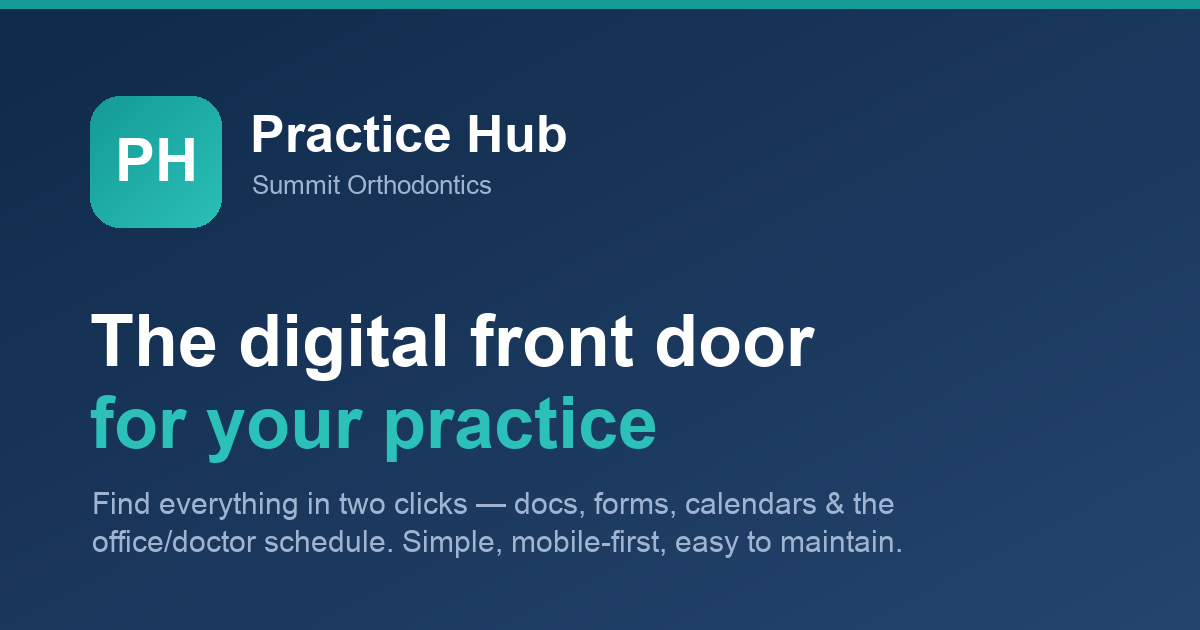
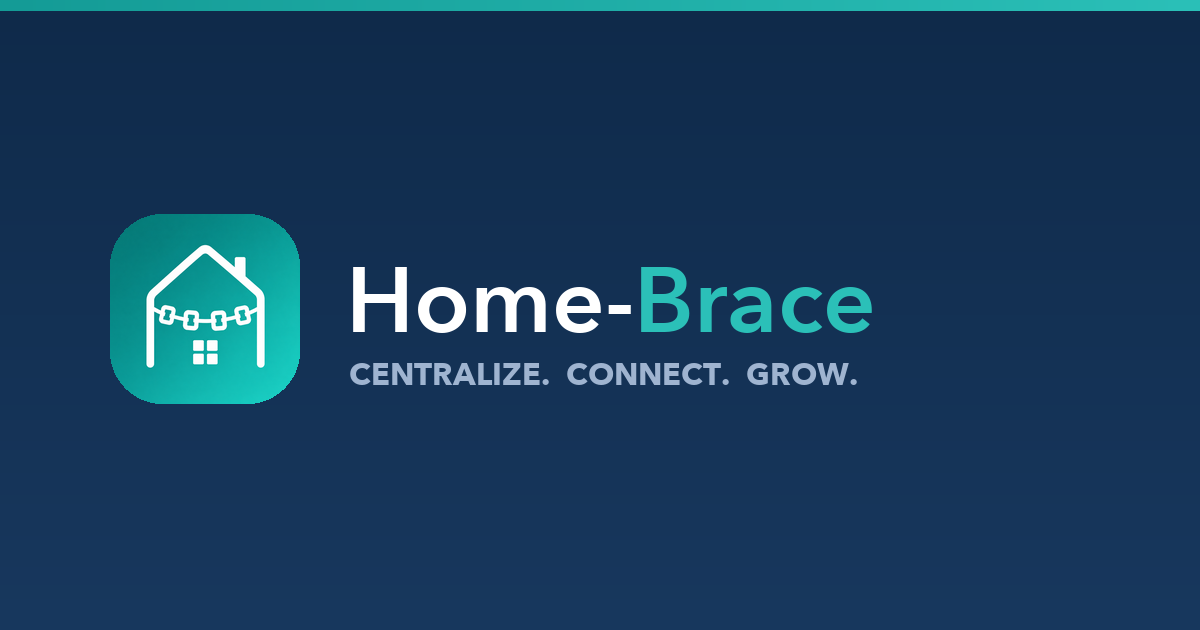
Rebuild the social card, replace month stepper with a click-to-pick month grid
- assets/og-image.png still showed "PH / Practice Hub / Summit Orthodontics" — it's a
  PNG so the rename never touched it. Rebuilt from the V2 mark with the Home-Brace
  wordmark and the Centralize. Connect. Grow. tagline.
- Month look-back is now a single button that opens a 12-month grid; months with no
  figures are disabled. Closes on pick, outside click or Esc.
- Nothing shifts when you use it: the trigger is a fixed 150px, the grid is an overlay,
  and the "This month" pill keeps its month suffix in every state.
- Fixed a labelling bug this exposed: monthName() returns the SELECTED month, so while
  looking back at July the pill read "This month · Jul". It now always names the
  current month.
- On phones the grid centres itself instead of hanging off the left edge.

diff --git a/v1/index.html b/v1/index.html
@@ -114,21 +114,41 @@
   .pchip{border:1px solid var(--line);background:#fff;border-radius:999px;padding:8px 15px;font-size:13.5px;font-weight:700;color:var(--navy);cursor:pointer;font-family:inherit;box-shadow:var(--shadow)}
   .pchip:hover{border-color:var(--teal);color:var(--teal-600)}
   .pchip.on{background:var(--teal);color:#fff;border-color:var(--teal)}
-  /* Month stepper — replaces the old "Look back at a month…" dropdown.
-     One control, two arrows, no extra pills. Walk back a month at a time. */
-  .mstep{display:inline-flex;align-items:center;background:#fff;border:1px solid var(--line);
-    border-radius:999px;box-shadow:var(--shadow);overflow:hidden}
-  .mstep button{border:none;background:none;font-family:inherit;cursor:pointer;color:var(--navy);
-    width:38px;height:38px;font-size:17px;line-height:1;display:grid;place-items:center}
-  .mstep button:hover:not(:disabled){background:var(--teal-soft);color:var(--teal-600)}
-  .mstep button:disabled{color:#c3ccd8;cursor:default}
-  .mstep .lab{min-width:104px;text-align:center;font-size:13.5px;font-weight:700;color:var(--soft);
-    padding:0 4px;user-select:none}
-  .mstep.on{border-color:var(--teal);background:var(--teal)}
-  .mstep.on .lab{color:#fff}
-  .mstep.on button{color:#eafffd}
-  .mstep.on button:hover:not(:disabled){background:rgba(255,255,255,.18);color:#fff}
-  .mstep.on button:disabled{color:rgba(255,255,255,.4)}
+  /* Month picker — one button, opens a grid, pick a month. The trigger is a FIXED width
+     and the grid is an overlay, so nothing on the page shifts when you open it or change
+     month (an earlier stepper made the row jump every time the label changed length). */
+  .mpick{position:relative;display:inline-block}
+  .mpick > .trg{display:inline-flex;align-items:center;gap:8px;width:150px;height:38px;
+    border:1px solid var(--line);background:#fff;border-radius:999px;box-shadow:var(--shadow);
+    padding:0 14px;font-family:inherit;font-size:13.5px;font-weight:700;color:var(--soft);cursor:pointer}
+  .mpick > .trg:hover{border-color:var(--teal);color:var(--teal-600)}
+  .mpick > .trg .cal{font-size:14px;line-height:1}
+  .mpick > .trg .txt{flex:1;text-align:left;white-space:nowrap;overflow:hidden}
+  .mpick > .trg .car{font-size:10px;opacity:.7}
+  .mpick.on > .trg{background:var(--teal);border-color:var(--teal);color:#fff}
+  .mpick.open > .trg{border-color:var(--teal)}
+  .mgrid{position:absolute;top:44px;left:0;z-index:60;background:#fff;border:1px solid var(--line);
+    border-radius:14px;box-shadow:var(--shadow-lg);padding:12px;width:262px;display:none}
+  .mpick.open .mgrid{display:block}
+  .mgrid .gh{font-size:11px;font-weight:800;text-transform:uppercase;letter-spacing:.05em;
+    color:var(--soft);padding:0 2px 9px}
+  .mgrid .g{display:grid;grid-template-columns:repeat(3,1fr);gap:6px}
+  .mgrid .g button{border:1px solid var(--line);background:#fff;border-radius:9px;padding:9px 0;
+    font-family:inherit;font-size:13px;font-weight:700;color:var(--navy);cursor:pointer}
+  .mgrid .g button:hover:not(:disabled){border-color:var(--teal);color:var(--teal-600);background:var(--teal-soft)}
+  .mgrid .g button.on{background:var(--teal);border-color:var(--teal);color:#fff}
+  .mgrid .g button:disabled{color:#c3ccd8;background:#fafbfc;border-color:#eef1f5;cursor:default}
+  .mgrid .clr{width:100%;margin-top:9px;border:none;background:none;font-family:inherit;font-size:12.5px;
+    font-weight:700;color:var(--teal-600);cursor:pointer;padding:7px}
+  .mgrid .clr:hover{text-decoration:underline}
+  /* On a phone a left-anchored 262px panel hangs off the screen edge, so centre it
+     instead — a familiar picker sheet. Outside-tap and Esc still close it. */
+  @media(max-width:520px){
+    .mgrid{position:fixed;left:14px;right:14px;top:50%;transform:translateY(-50%);
+      width:auto;padding:16px;box-shadow:0 20px 60px rgba(15,42,74,.4)}
+    .mgrid .g button{padding:13px 0;font-size:14px}
+    .mgrid .clr{padding:11px}
+  }
   .chip .tick{font-weight:800;color:var(--teal-600)}
   .chip.on .tick{color:#fff}
   .chip.combtog{border-style:dashed;font-weight:700}
@@ -197,8 +217,8 @@
   .foot b{color:var(--navy)}
   @media(max-width:620px){ .kpi .v{font-size:22px} }
 </style>
-<script src="user.js?v=hb5"></script>
-<script src="celebrate.js?v=hb5"></script>
+<script src="user.js?v=hb6"></script>
+<script src="celebrate.js?v=hb6"></script>
 </head>
 <body>
 <div class="ribbon">PROTOTYPE — real numbers from the 2026 Production Dashboard workbook. You only see the offices you have access to.</div>
@@ -337,6 +357,7 @@ const OFFICES=[
   let shown=null;
   const curOffice=()=>shown;
   let period='mtd';      // their ask: default to MTD, with a toggle to the year
+  let pickOpen=false;    // month-picker popover open?
   let chartMode='starts'; // their ask: one chart at the bottom, toggled starts <-> production
 
   // a month counts once it has BOTH an actual and a goal (Mansfield has actuals from Jan but goals only from Apr)
@@ -522,21 +543,32 @@ const OFFICES=[
   }
 
   function periodBar(o){
-    const nm=monthName(o);
+    // The "This month" pill must always name the CURRENT month. monthName() returns the
+    // selected one, so looking back at July used to relabel the pill "This month · Jul".
+    const ci=curIdx(o); const nm = ci>=0 ? MO[ci] : '';
     const b=(v,lab)=>'<button class="pchip'+(period===v?' on':'')+'" onclick="DASH.period(\''+v+'\')">'+lab+'</button>';
     const done=live(o), cur=partial(o);
     const avail=done.filter(i=>i!==cur);                 // finished months you can look back at
-    const at=isMonth()?avail.indexOf(period):-1;
-    const canBack = avail.length && (at<0 || at>0);
-    const canFwd  = at>=0;                               // forward always lands somewhere (last step = back to "this month")
-    const back='<div class="mstep'+(at>=0?' on':'')+'">'+
-      '<button onclick="DASH.step(-1)"'+(canBack?'':' disabled')+' aria-label="Previous month" title="Previous month">\u2039</button>'+
-      '<span class="lab">'+(at>=0?MOFULL[period]:'Look back')+'</span>'+
-      '<button onclick="DASH.step(1)"'+(canFwd?'':' disabled')+' aria-label="Next month" title="Next month">\u203a</button></div>';
+    const sel2=isMonth()?period:-1;
+    // 12 months in a grid \u2014 months with no figures yet are simply not clickable.
+    const cells=MOFULL.map((m,i)=>{
+      const ok=avail.indexOf(i)>=0;
+      return '<button'+(ok?'':' disabled')+(i===sel2?' class="on"':'')+
+        (ok?' onclick="DASH.month('+i+')"':'')+' title="'+m+'">'+MO[i]+'</button>';
+    }).join('');
+    const back='<div class="mpick'+(sel2>=0?' on':'')+(pickOpen?' open':'')+'">'+
+      '<button class="trg" onclick="DASH.pickOpen()" aria-haspopup="true" aria-expanded="'+(pickOpen?'true':'false')+'">'+
+        '<span class="cal">\ud83d\udcc5</span><span class="txt">'+(sel2>=0?MOFULL[sel2]:'Pick a month')+'</span><span class="car">\u25bc</span></button>'+
+      '<div class="mgrid" onclick="event.stopPropagation()"><div class="gh">Look back at a finished month</div>'+
+        '<div class="g">'+cells+'</div>'+
+        (sel2>=0?'<button class="clr" onclick="DASH.period(\'mtd\')">\u2190 Back to this month</button>':'')+
+      '</div></div>';
     const hint = isMonth() ? MOFULL[period]+' \u2014 a finished month, judged against its full goal.'
       : period==='mtd' ? 'Showing '+(nm||'the latest month')+' only \u2014 goals scaled to the days worked so far.'
       : 'Showing every finished month this year.';
-    return '<div class="periodbar">'+b('mtd','This month'+(nm&&period==='mtd'?' \u00b7 '+nm:''))+b('ytd','Year to date')+back+
+    // Keep the month suffix ALWAYS — it used to appear only while MTD was selected, which
+    // changed the pill's width and shoved the month picker sideways on every switch.
+    return '<div class="periodbar">'+b('mtd','This month'+(nm?' \u00b7 '+nm:''))+b('ytd','Year to date')+back+
       '<span class="phint">'+hint+'</span></div>';
   }
   function daysTiles(o){
@@ -716,31 +748,21 @@ const OFFICES=[
   }
   el('persona').innerHTML=PERSONAS.map(p=>'<option value="'+p.id+'">'+p.name+'</option>').join('');
   window.DASH={set,pick,party:partyNow,combine:toggleCombine,
-    period:v=>{period=v;render();},
-    month:v=>{ if(v==='')return; period=Number(v); render(); },
-    // Walk the month stepper. Stepping forward past the newest finished month
-    // returns you to "This month", so there's always a way back without hunting.
-    step:d=>{
-      const o=shown; if(!o) return;
-      const avail=live(o).filter(i=>i!==partial(o));
-      if(!avail.length) return;
-      const at=isMonth()?avail.indexOf(period):-1;
-      if(at<0){ if(d<0) period=avail[avail.length-1]; }
-      else{
-        const nx=at+d;
-        if(nx<0) return;
-        period = nx>=avail.length ? 'mtd' : avail[nx];
-      }
-      render();
-    },
+    period:v=>{period=v;pickOpen=false;render();},
+    month:v=>{ if(v===''||v==null)return; period=Number(v); pickOpen=false; render(); },
+    pickOpen:()=>{ pickOpen=!pickOpen; render(); },
     chart:v=>{chartMode=v;render();}};
+  document.addEventListener('click',e=>{
+    if(pickOpen && !e.target.closest('.mpick')){ pickOpen=false; render(); }
+  });
+  document.addEventListener('keydown',e=>{ if(e.key==='Escape'&&pickOpen){ pickOpen=false; render(); } });
   let saved='admin'; try{ saved=localStorage.getItem('ph_viewas')||'admin'; }catch(_){}
   if(!PERSONAS.some(p=>p.id===saved)) saved='admin';
   set(saved);
 })();
 </script>
 <script>PH.nav('dashboard');</script>
-<script src="tour.js?v=hb5"></script>
+<script src="tour.js?v=hb6"></script>
 <script>
 Tour.init([
   {sel:'.viewas', title:'You only see your offices', body:'Production numbers are sensitive, so people see <b>only the offices they\u2019re assigned to</b>. Switch to the Carlsbad manager \u2014 the group totals and the leaderboard disappear, because they aren\u2019t hers to see.'},

diff --git a/calendars.html b/calendars.html
@@ -6,7 +6,7 @@
 <title>Schedule — Home-Brace</title>
 <link rel="preconnect" href="https://fonts.googleapis.com">
 <link href="https://fonts.googleapis.com/css2?family=Inter:wght@400;500;600;700;800&display=swap" rel="stylesheet">
-<link rel="stylesheet" href="assets/styles.css?v=hb5">
+<link rel="stylesheet" href="assets/styles.css?v=hb6">
 <link rel="icon" href="assets/favicon.png" type="image/png">
 <link rel="apple-touch-icon" href="assets/icons/apple-touch-icon.png">
 <meta name="theme-color" content="#0F2A4A">
@@ -123,8 +123,8 @@
 
 <div id="schedModal" class="s-overlay"><div class="s-modal" id="schedModalCard"></div></div>
 
-<script src="assets/data.js?v=hb5"></script>
-<script src="assets/app.js?v=hb5"></script>
+<script src="assets/data.js?v=hb6"></script>
+<script src="assets/app.js?v=hb6"></script>
 <script>
 (function(){
   const PALETTE=[

diff --git a/v1/home.html b/v1/home.html
@@ -92,7 +92,7 @@
   .upd .uw{font-size:12px;color:var(--soft)}
   .upd .utag{margin-left:auto;font-size:11px;font-weight:700;color:var(--teal-600);background:var(--teal-soft);border-radius:999px;padding:2px 9px;white-space:nowrap}
 </style>
-<script src="user.js?v=hb5"></script>
+<script src="user.js?v=hb6"></script>
 </head>
 <body>
 <div class="ribbon">PROTOTYPE — this is the logged-in home. Use “Viewing as” to see how the app changes for each role.</div>
@@ -250,7 +250,7 @@
 })();
 </script>
 <script>PH.nav('home');</script>
-<script src="tour.js?v=hb5"></script>
+<script src="tour.js?v=hb6"></script>
 <script>
 Tour.init([
   {sel:'.ph-av', title:'This is you', body:'Your name and photo, top right. Tap it any time for <b>My profile</b> \u2014 and, in this demo, to <b>sign in as someone else</b> so you can see exactly what each person sees.'},

diff --git a/v1/marketing.html b/v1/marketing.html
@@ -152,7 +152,7 @@
   @media(max-width:900px){ .board{grid-template-columns:repeat(2,1fr)} }
   @media(max-width:560px){ .board{grid-template-columns:1fr} }
 </style>
-<script src="user.js?v=hb5"></script>
+<script src="user.js?v=hb6"></script>
 </head>
 <body>
 <div class="ribbon">PROTOTYPE — marketing board concept for validation. Real build lives in Home-Brace (Microsoft Lists / Planner).</div>
@@ -417,7 +417,7 @@
 })();
 </script>
 <script>PH.nav('marketing');</script>
-<script src="tour.js?v=hb5"></script>
+<script src="tour.js?v=hb6"></script>
 <script>
 Tour.init([
   {sel:'.board', title:'Your marketing board', body:'Every event, promo and post is a card that moves left to right: <b>Ideas \u2192 Planned \u2192 In progress \u2192 Done</b>. <b>Drag a card</b> across, or use the \u25c0 \u25b6 arrows on a phone.'},

diff --git a/v1/admin.html b/v1/admin.html
@@ -160,7 +160,7 @@
   .tp.on{background:var(--navy);color:#fff;border-color:var(--navy)}
   @media(max-width:640px){ .grid2{grid-template-columns:1fr} }
 </style>
-<script src="user.js?v=hb5"></script>
+<script src="user.js?v=hb6"></script>
 </head>
 <body>
 <div class="ribbon">PROTOTYPE — admin console concept for validation. Real build: people sync from Microsoft 365; access is managed here.</div>
@@ -740,7 +740,7 @@
 })();
 </script>
 <script>PH.nav('admin');</script>
-<script src="tour.js?v=hb5"></script>
+<script src="tour.js?v=hb6"></script>
 <script>
 Tour.init([
   {sel:'#tabs', title:'This is your control room', body:'Four tabs and you can run the whole hub: <b>People</b>, <b>Teams &amp; Access</b>, <b>Document Sections</b> and <b>Locations</b>. No developer, no consultant.', pre:()=>AD.tab('users')},

diff --git a/scorecards.html b/scorecards.html
@@ -6,7 +6,7 @@
 <title>Scorecards &amp; KPIs — Home-Brace</title>
 <link rel="preconnect" href="https://fonts.googleapis.com">
 <link href="https://fonts.googleapis.com/css2?family=Inter:wght@400;500;600;700;800&display=swap" rel="stylesheet">
-<link rel="stylesheet" href="assets/styles.css?v=hb5">
+<link rel="stylesheet" href="assets/styles.css?v=hb6">
 <!-- social+favicon -->
 <link rel="icon" href="assets/favicon.png" type="image/png">
 <link rel="icon" href="assets/icons/favicon-32.png" sizes="32x32" type="image/png">
@@ -58,7 +58,7 @@
 </div>
 
 <div id="ftr"></div>
-<script src="assets/data.js?v=hb5"></script>
-<script src="assets/app.js?v=hb5"></script>
+<script src="assets/data.js?v=hb6"></script>
+<script src="assets/app.js?v=hb6"></script>
 </body>
 </html>

diff --git a/forms.html b/forms.html
@@ -6,7 +6,7 @@
 <title>Forms &amp; Requests — Home-Brace</title>
 <link rel="preconnect" href="https://fonts.googleapis.com">
 <link href="https://fonts.googleapis.com/css2?family=Inter:wght@400;500;600;700;800&display=swap" rel="stylesheet">
-<link rel="stylesheet" href="assets/styles.css?v=hb5">
+<link rel="stylesheet" href="assets/styles.css?v=hb6">
 <!-- social+favicon -->
 <link rel="icon" href="assets/favicon.png" type="image/png">
 <link rel="icon" href="assets/icons/favicon-32.png" sizes="32x32" type="image/png">
@@ -51,7 +51,7 @@
 </div>
 
 <div id="ftr"></div>
-<script src="assets/data.js?v=hb5"></script>
-<script src="assets/app.js?v=hb5"></script>
+<script src="assets/data.js?v=hb6"></script>
+<script src="assets/app.js?v=hb6"></script>
 </body>
 </html>

diff --git a/operations.html b/operations.html
@@ -6,7 +6,7 @@
 <title>Operations Manual — Home-Brace</title>
 <link rel="preconnect" href="https://fonts.googleapis.com">
 <link href="https://fonts.googleapis.com/css2?family=Inter:wght@400;500;600;700;800&display=swap" rel="stylesheet">
-<link rel="stylesheet" href="assets/styles.css?v=hb5">
+<link rel="stylesheet" href="assets/styles.css?v=hb6">
 <!-- social+favicon -->
 <link rel="icon" href="assets/favicon.png" type="image/png">
 <link rel="icon" href="assets/icons/favicon-32.png" sizes="32x32" type="image/png">
@@ -60,7 +60,7 @@
 </div>
 
 <div id="ftr"></div>
-<script src="assets/data.js?v=hb5"></script>
-<script src="assets/app.js?v=hb5"></script>
+<script src="assets/data.js?v=hb6"></script>
+<script src="assets/app.js?v=hb6"></script>
 </body>
 </html>

diff --git a/manage-my-office.html b/manage-my-office.html
@@ -6,7 +6,7 @@
 <title>Manage My Office — Home-Brace</title>
 <link rel="preconnect" href="https://fonts.googleapis.com">
 <link href="https://fonts.googleapis.com/css2?family=Inter:wght@400;500;600;700;800&display=swap" rel="stylesheet">
-<link rel="stylesheet" href="assets/styles.css?v=hb5">
+<link rel="stylesheet" href="assets/styles.css?v=hb6">
 <!-- social+favicon -->
 <link rel="icon" href="assets/favicon.png" type="image/png">
 <link rel="icon" href="assets/icons/favicon-32.png" sizes="32x32" type="image/png">
@@ -76,7 +76,7 @@
 </div>
 
 <div id="ftr"></div>
-<script src="assets/data.js?v=hb5"></script>
-<script src="assets/app.js?v=hb5"></script>
+<script src="assets/data.js?v=hb6"></script>
+<script src="assets/app.js?v=hb6"></script>
 </body>
 </html>

diff --git a/leadership.html b/leadership.html
@@ -6,7 +6,7 @@
 <title>Leadership — Home-Brace</title>
 <link rel="preconnect" href="https://fonts.googleapis.com">
 <link href="https://fonts.googleapis.com/css2?family=Inter:wght@400;500;600;700;800&display=swap" rel="stylesheet">
-<link rel="stylesheet" href="assets/styles.css?v=hb5">
+<link rel="stylesheet" href="assets/styles.css?v=hb6">
 <!-- social+favicon -->
 <link rel="icon" href="assets/favicon.png" type="image/png">
 <link rel="icon" href="assets/icons/favicon-32.png" sizes="32x32" type="image/png">
@@ -59,7 +59,7 @@
 </div>
 
 <div id="ftr"></div>
-<script src="assets/data.js?v=hb5"></script>
-<script src="assets/app.js?v=hb5"></script>
+<script src="assets/data.js?v=hb6"></script>
+<script src="assets/app.js?v=hb6"></script>
 </body>
 </html>

diff --git a/directory.html b/directory.html
@@ -6,7 +6,7 @@
 <title>Directory — Home-Brace</title>
 <link rel="preconnect" href="https://fonts.googleapis.com">
 <link href="https://fonts.googleapis.com/css2?family=Inter:wght@400;500;600;700;800&display=swap" rel="stylesheet">
-<link rel="stylesheet" href="assets/styles.css?v=hb5">
+<link rel="stylesheet" href="assets/styles.css?v=hb6">
 <!-- social+favicon -->
 <link rel="icon" href="assets/favicon.png" type="image/png">
 <link rel="icon" href="assets/icons/favicon-32.png" sizes="32x32" type="image/png">
@@ -49,7 +49,7 @@
 </div>
 
 <div id="ftr"></div>
-<script src="assets/data.js?v=hb5"></script>
-<script src="assets/app.js?v=hb5"></script>
+<script src="assets/data.js?v=hb6"></script>
+<script src="assets/app.js?v=hb6"></script>
 </body>
 </html>

diff --git a/it.html b/it.html
@@ -6,7 +6,7 @@
 <title>IT Help — Home-Brace</title>
 <link rel="preconnect" href="https://fonts.googleapis.com">
 <link href="https://fonts.googleapis.com/css2?family=Inter:wght@400;500;600;700;800&display=swap" rel="stylesheet">
-<link rel="stylesheet" href="assets/styles.css?v=hb5">
+<link rel="stylesheet" href="assets/styles.css?v=hb6">
 <!-- social+favicon -->
 <link rel="icon" href="assets/favicon.png" type="image/png">
 <link rel="icon" href="assets/icons/favicon-32.png" sizes="32x32" type="image/png">
@@ -61,7 +61,7 @@
 </div>
 
 <div id="ftr"></div>
-<script src="assets/data.js?v=hb5"></script>
-<script src="assets/app.js?v=hb5"></script>
+<script src="assets/data.js?v=hb6"></script>
+<script src="assets/app.js?v=hb6"></script>
 </body>
 </html>
